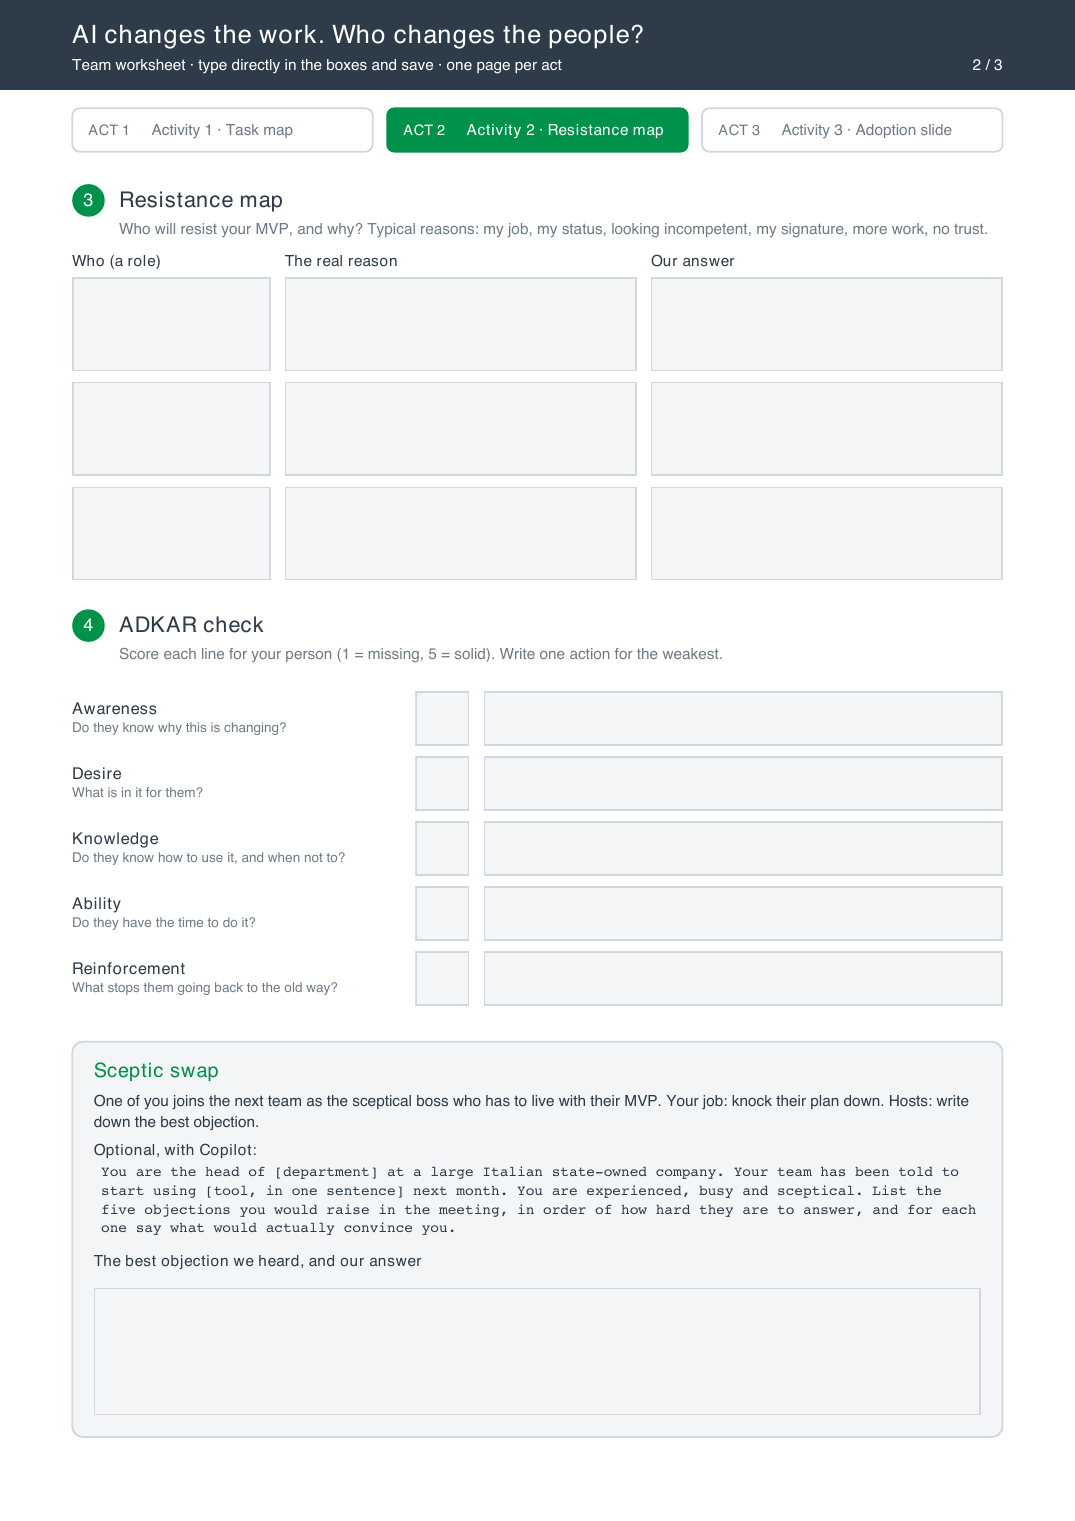
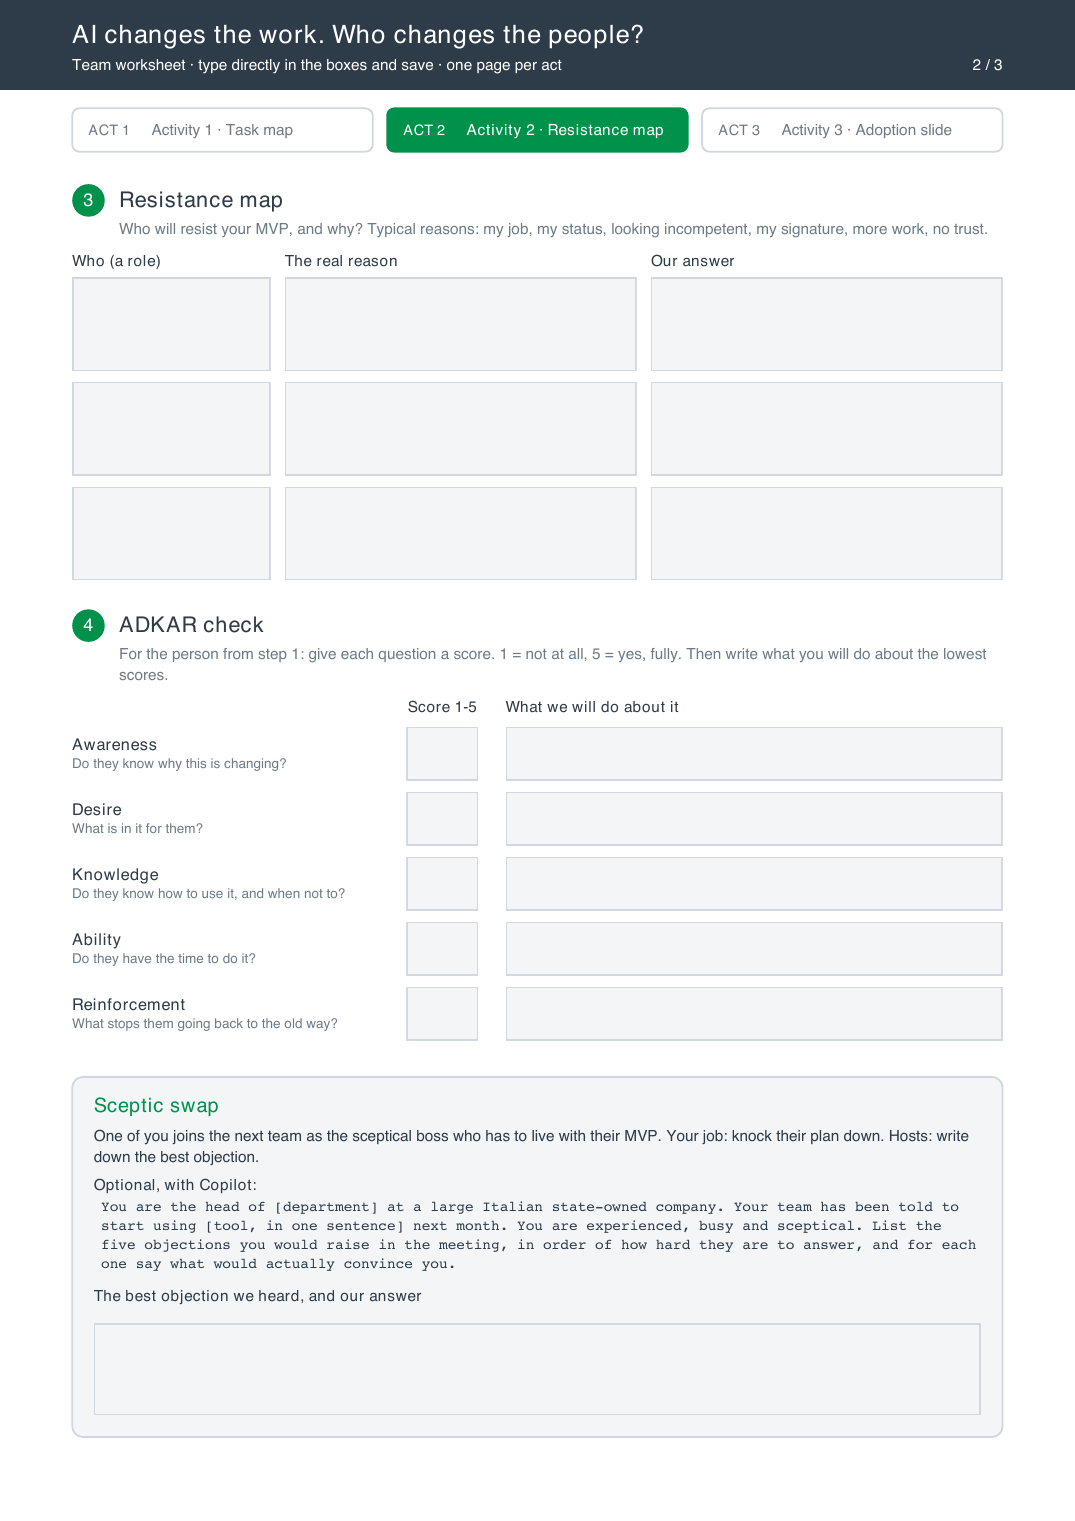
Worksheet: column headers and clearer instruction for the ADKAR check

diff --git a/index.html b/index.html
@@ -601,7 +601,7 @@ body.dark-slide .rail span.now { color:#3CC07E; border-color:#3CC07E; }
   <div class="zt-clip"><img class="zt-img" src="img/ficha-2.png" alt="Adoption Plan worksheet, page 2"></div>
   <div class="zt-cap"><small>Your sheet · page 2 of 3</small>Who will resist, and why.</div>
   <div class="step zt" data-zoom="50 28 1" data-cap="&lt;small&gt;Step 3&lt;/small&gt;Who, &lt;b&gt;the real reason&lt;/b&gt;, and your answer."></div>
-  <div class="step zt" data-zoom="50 56 1" data-cap="&lt;small&gt;Step 4 · ADKAR&lt;/small&gt;Score 1 to 5. &lt;b&gt;Fix the weakest one.&lt;/b&gt;"></div>
+  <div class="step zt" data-zoom="50 56 1" data-cap="&lt;small&gt;Step 4 · ADKAR&lt;/small&gt;Score each question from 1 to 5. &lt;b&gt;Then fix the lowest.&lt;/b&gt;"></div>
 </section>
 
 <section class="slide" data-chapter="Activity 2 · Resistance map" data-title="Activity 2 · Resistance map"><div class="inner exercise">

diff --git a/worksheet.py b/worksheet.py
@@ -158,7 +158,11 @@ for r in range(3):
 y -= 14
 
 y = step(y, 4, "ADKAR check",
-         "Score each line for your person (1 = missing, 5 = solid). Write one action for the weakest.")
+         "For the person from step 1: give each question a score. 1 = not at all, 5 = yes, fully. "
+         "Then write what you will do about the lowest scores.")
+c.setFillColor(INK); c.setFont("Helvetica-Bold", 8.5)
+c.drawCentredString(M + 205, y, "Score 1-5"); c.drawString(M + 240, y, "What we will do about it")
+y -= 8
 adkar = [("Awareness", "Do they know why this is changing?"),
          ("Desire", "What is in it for them?"),
          ("Knowledge", "Do they know how to use it, and when not to?"),
@@ -167,8 +171,8 @@ adkar = [("Awareness", "Do they know why this is changing?"),
 for t, q in adkar:
     c.setFillColor(INK); c.setFont("Helvetica-Bold", 9); c.drawString(M, y - 13, t)
     c.setFillColor(GREY); c.setFont("Helvetica", 7.5); c.drawString(M, y - 23, q)
-    field(M + 190, y, 30, 30, f"adkar_{t}_score", f"{t} score 1-5", False)
-    field(M + 228, y, FULL - 228, 30, f"adkar_{t}_action", f"{t} action")
+    field(M + 185, y, 40, 30, f"adkar_{t}_score", f"{t} score 1-5", False)
+    field(M + 240, y, FULL - 240, 30, f"adkar_{t}_action", f"{t} action")
     y -= 36
 y -= 14
 
